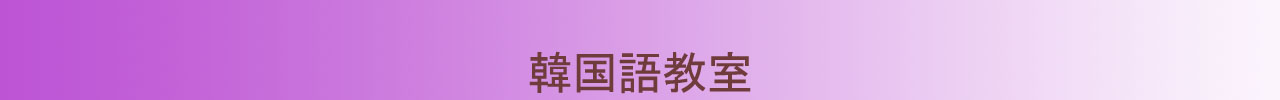
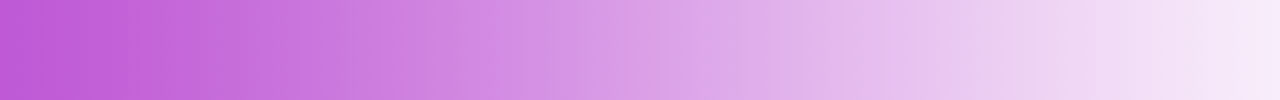
Update Background Image and ul tag on leftside

Changed region(s): [[0.4062, 0.51, 0.5938, 0.93]]

diff --git a/style.css b/style.css
@@ -1,10 +1,14 @@
 
 body{
-	background-image: url("BackgroundImage.jpg");
-
+	background-image:url("BackgroundImage1.jpg");
+	background-repeat : no-repeat;
+	background-size : cover;
 	margin:0px;
 }
 h1{
+	background-image:url("TitleImage.jpg");
+	background-repeat : no-repeat;
+	background-size : cover;
 	font-size: 40px;
 	text-align:center;
 	margin:0;
@@ -18,18 +22,24 @@ h1{
 
 
 }
+#Index_url{
+	background-color:#f1f1f1;
+}
 #Index_url ol{
-
 	width:170px;
 	margin:0;
 	padding-left:20px;
 	padding-top:20px;
-
-
-
 }
+#Index_url li a{
+	color:#000; /*앞의 숫자배열 색 검정색*/
+	text-decoration:none;/*밑줄 제거*/
+}
+#Index_url li a:hover{
+	background-color:#555;
+} /*마우스가 버튼위에 올렸을때 반응*/
 #body_data{
-
+	background-color:#dfd2d2;
 	border-left:1px solid gray ;
   width:190px
 	margin-bottom:100px;

diff --git a/index.html b/index.html
@@ -8,7 +8,7 @@
 	</head>
 
 	<body> <!-- ここから本文を書くところ-->
-			<h1><a href="index.html"><img src="TitleImage.jpg" alt="TitleImage"></a></h1>
+			<h1><a href="index.html">韓国語教室</a></h1>
 		<div id="Main_all">
 			<div id="Index_url">
 				<ol><!--oldered list-->
